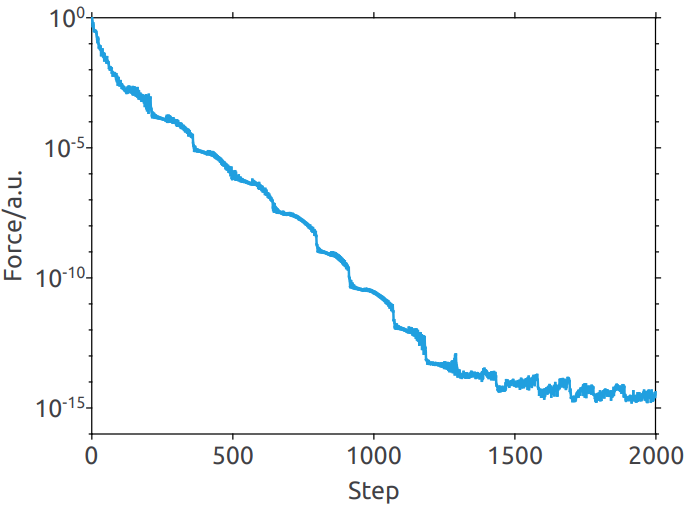
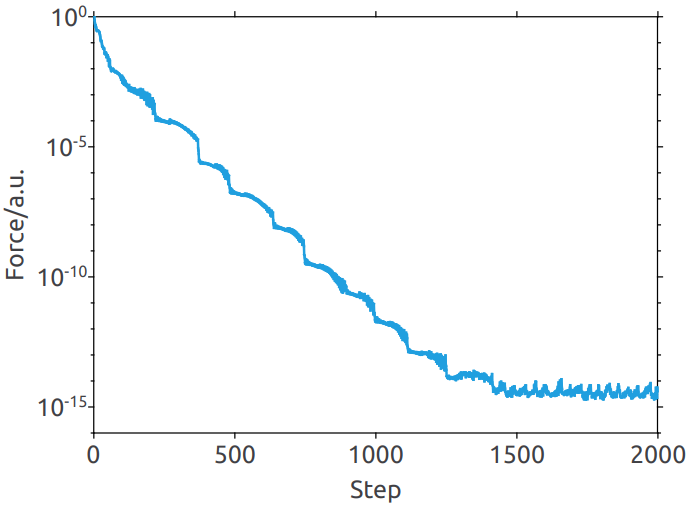
FireModel: Optimize algorithm

Changed region(s): [[0.0, 0.0, 1.0, 0.9154], [0.2747, 0.2657, 0.9462, 0.7972], [0.4884, 0.9449, 0.5799, 1.0]]

diff --git a/include/Physica/Core/Math/Calculus/ODE/ODESolver.h b/include/Physica/Core/Math/Calculus/ODE/ODESolver.h
@@ -23,10 +23,10 @@
 namespace Physica::Core {
     template<class T, size_t Dim>
     class ODESolver {
-    protected:
+    public:
         using VectorType = Vector<T, Dim>;
         using SolutionType = DenseMatrix<T, MatrixOption::Column | MatrixOption::Vector, Dim>;
-
+    protected:
         Vector<T> x;
         SolutionType solution;
         T stepSize;
@@ -45,9 +45,8 @@ namespace Physica::Core {
         [[nodiscard]] size_t getNumStep() const noexcept { return x.getLength(); }
         /* Static members */
         [[nodiscard]] static size_t getNumStep(T start, T end, T stepSize);
-    private:
         template<class Function>
-        VectorType RungeKuttaDy(size_t step, const VectorType& dy_dx, Function func);
+        static VectorType rungeKutta4_step(T stepSize, T x, const VectorType& sol, Function func);
     };
 
     template<class T, size_t Dim>
@@ -75,8 +74,7 @@ namespace Physica::Core {
         const size_t column_1 = solution.getColumn() - 1;
         for (size_t i = 0; i < column_1; ++i) {
             const T& x_i = x[i];
-            VectorType dy_dx = func(x_i, solution.asArray()[i]);
-            solution.asArray()[i + 1] = RungeKuttaDy(i, dy_dx, func);
+            solution.asArray()[i + 1] = rungeKutta4_step(stepSize, x_i, solution.asArray()[i], func);
             x[i + 1] = x_i + stepSize;
         }
     }
@@ -87,15 +85,15 @@ namespace Physica::Core {
      */
     template<class T, size_t Dim>
     template<class Function>
-    typename ODESolver<T, Dim>::VectorType ODESolver<T, Dim>::RungeKuttaDy (
-            size_t step, const VectorType& dy_dx, Function func) {
-        const VectorType k1 = T(0.5) * stepSize * dy_dx;
-        const T temp = x[step] + stepSize * T(0.5);
-        auto y = solution.col(step);
-        const VectorType k2 = stepSize * func(temp, y + k1);
-        const VectorType k3 = stepSize * func(temp, y + k2 * T(0.5));
-        const VectorType k4 = T(0.5) * stepSize * func(x[step] + stepSize, y + k3);
-        return y + (k1 + k2 + k3 + k4) / T(3);
+    typename ODESolver<T, Dim>::VectorType
+    ODESolver<T, Dim>::rungeKutta4_step(T stepSize, T x, const VectorType& sol, Function func) {
+        const VectorType k1 = T(0.5) * stepSize * func(x, sol);
+        const T x1 = x + stepSize;
+        const T temp = x1 * T(0.5);
+        const VectorType k2 = stepSize * func(temp, sol + k1);
+        const VectorType k3 = stepSize * func(temp, sol + k2 * T(0.5));
+        const VectorType k4 = T(0.5) * stepSize * func(x1, sol + k3);
+        return sol + (k1 + k2 + k3 + k4) / T(3);
     }
     /**
      * Solve the second order ODE that has form: y''(x) = f(x, y(x)).

diff --git a/include/Physica/Core/Physics/MD/KineticModel/FireModel.h b/include/Physica/Core/Physics/MD/KineticModel/FireModel.h
@@ -55,6 +55,7 @@ namespace Physica::Core {
         /* Operators */
         FireModel& operator=(FireModel obj) noexcept { swap(obj); return *this; }
         /* Operations */
+        void paramStep(MDType& rpmd);
         void mixingStep(MDType& rpmd);
         void swap(FireModel& __restrict obj) noexcept;
         /* Getters */
@@ -92,14 +93,10 @@ namespace Physica::Core {
     }
 
     template<class ScalarType, unsigned int Dim>
-    void FireModel<ScalarType, Dim>::mixingStep(MDType& rpmd) {
+    void FireModel<ScalarType, Dim>::paramStep(MDType& rpmd) {
         const auto force = rpmd.getForce().col(0);
         auto phase = rpmd.getPhaseMatrix().col(0);
         auto momentum = phase.head(rpmd.getDOF());
-
-        const ScalarType normP = momentum.norm();
-        normF = force.norm();
-        momentum = (ScalarType(1) - mixAlpha) * momentum + (mixAlpha * normP / normF) * force.asVector();
         const ScalarType power = force.asVector() * momentum; //Assuming unit mass
         if (power.isPositive()) {
             if (numStep > numLasyStep) {
@@ -114,6 +111,17 @@ namespace Physica::Core {
             mixAlpha = mixAlpha0;
             numStep = 0;
         }
+    }
+
+    template<class ScalarType, unsigned int Dim>
+    void FireModel<ScalarType, Dim>::mixingStep(MDType& rpmd) {
+        const auto force = rpmd.getForce().col(0);
+        auto phase = rpmd.getPhaseMatrix().col(0);
+        auto momentum = phase.head(rpmd.getDOF());
+
+        const ScalarType normP = momentum.norm();
+        normF = force.norm();
+        momentum = (ScalarType(1) - mixAlpha) * momentum + (mixAlpha * normP / normF) * force.asVector();
     }
 
     template<class ScalarType, unsigned int Dim>

diff --git a/include/Physica/Core/Physics/MD/MDImpl/RPMDImpl.h b/include/Physica/Core/Physics/MD/MDImpl/RPMDImpl.h
@@ -268,6 +268,29 @@ namespace Physica::Core {
 
         kineticModel.nve_step(ringPolymer, timeStep);
         updateForce<ForceModel, Executor>(forceModel);
+        fire.paramStep(*this);
+        forceStep(fire.getTimeStep());
+        fire.mixingStep(*this);
+    }
+
+    template<class ScalarType, unsigned int Dim, size_t NumReplica, class ForceMatrixAllocator>
+    template<BaroType Type, class KineticModel, class ForceModel, class Executor>
+    void RPMD<ScalarType, Dim, NumReplica, ForceMatrixAllocator>::fire_pstep(
+            FireModelType& fire,
+            Berendsen<ScalarType, NumReplica, Type>& barostat,
+            KineticModel& kineticModel,
+            ForceModel& forceModel) {
+        constexpr bool IsPeriodBoundary1 = Internal::Traits<KineticModel>::IsPeriodBoundary;
+        constexpr bool IsPeriodBoundary2 = Internal::Traits<ForceModel>::IsPeriodBoundary;
+        static_assert(IsPeriodBoundary1 == IsPeriodBoundary2, "[Error]: Inconsistent boundary condition");
+        static_assert(NumReplica == 1, "[Error]: Relaxing using PIMD makes no sence, NumReplica = 1 shall be enough");
+        static_assert(!Internal::is_empty_force_model<ForceModel>::value, "[Error]: Relax a empty model does nothing");
+
+        kineticModel.nve_step(ringPolymer, timeStep);
+        updateForce<ForceModel, Executor>(forceModel);
+        const LatticeMatrix stress = forceModel.virial(phaseToCell(0));
+        barostat.template npt_step<ForceModel>(*this, stress, timeStep);
+        fire.paramStep(*this);
         forceStep(fire.getTimeStep());
         fire.mixingStep(*this);
     }

diff --git a/include/Physica/Core/Physics/MD/RPMD.h b/include/Physica/Core/Physics/MD/RPMD.h
@@ -24,9 +24,11 @@
 #include "Physica/Core/Parallel/Executor/SequentialExecutor.h"
 #include "MDCell.h"
 #include "MDImpl/RingPolymer.h"
+#include "Barostat/BaroType.h"
 
 namespace Physica::Core {
     template<class ScalarType, unsigned int Dim> class FireModel;
+    template<class ScalarType, size_t NumReplica, BaroType Type> class Berendsen;
 
     template<class ScalarType>
     class RPMDBase {        
@@ -125,8 +127,12 @@ namespace Physica::Core {
 
         template<class KineticModel, class ForceModel, class Executor>
         void fire_vstep(FireModelType& fire, KineticModel& kineticModel, ForceModel& forceModel);
-        template<class KineticModel, class ForceModel, class Executor>
-        void fire_pstep(FireModelType& fire, KineticModel& kineticModel, ForceModel& forceModel);
+        template<BaroType Type, class KineticModel, class ForceModel, class Executor>
+        void fire_pstep(
+            FireModelType& fire,
+            Berendsen<ScalarType, NumReplica, Type>& barostat,
+            KineticModel& kineticModel,
+            ForceModel& forceModel);
 
         template<class RandomGenerator> void initMomentum(RandomGenerator& gen);
         void scaleVelocity();

diff --git a/include/Physica/Core/Physics/MD/Barostat/Berendsen.h b/include/Physica/Core/Physics/MD/Barostat/Berendsen.h
@@ -19,7 +19,7 @@
 #pragma once
 
 #include "Physica/Core/Physics/MD/RPMD.h"
-#include "Physica/Core/Math/Calculus/ODE/SRK2.h"
+#include "Physica/Core/Math/Calculus/ODE/ODESolver.h"
 #include "BaroType.h"
 
 namespace Physica::Core {
@@ -166,7 +166,13 @@ namespace Physica::Core {
         const auto& lattice = rpmd.getLattice();
         LatticeMatrix result(Dim, Dim, 0);
         auto integrateKernel = [&, deltaT](size_t r, size_t c) {
-            result(r, c) = (decayMatrix * lattice).calc(r, c) * deltaT;
+            using Integrator = ODESolver<ScalarType, 1>;
+            using VectorType = typename Integrator::VectorType;
+            const VectorType y{result(r, c)};
+            result(r, c) = Integrator::rungeKutta4_step(deltaT, 0, y,
+                [&lattice, &decayMatrix, r, c]([[maybe_unused]] ScalarType x, [[maybe_unused]] const VectorType& y) -> VectorType {
+                    return {(decayMatrix * lattice).calc(r, c)};
+                })[0];
         };
 
         if constexpr (Type == BaroType::Anisotropic) {

diff --git a/include/Physica/Core/Parallel/Executor/ThreadExecutor.h b/include/Physica/Core/Parallel/Executor/ThreadExecutor.h
@@ -59,7 +59,11 @@ namespace Physica::Core {
         /* Static members */
         [[nodiscard]] inline static Range splitJob(unsigned int loopCount, unsigned int core, unsigned int part);
     };
-
+    /**
+     * Return value are declared as [[nodiscard]] to warn user pay attention to
+     * 1. asynchronous return value
+     * 2. exception stored in std::future, which is usually ignored
+     */
     template<class Functor, class... Args>
     typename ThreadExecutor::FutureType ThreadExecutor::schedule(Functor func, Args&&... args) {
         return ThreadPool::getInstance().schedule(std::move(func), std::forward<Args>(args)...);

diff --git a/include/Physica/Core/Physics/MD/ForceModel/PairModel.h b/include/Physica/Core/Physics/MD/ForceModel/PairModel.h
@@ -272,7 +272,6 @@ namespace Physica::Core {
     template<class Derived>
     typename PairModel<Derived>::LatticeMatrix
     PairModel<Derived>::virial(const LatticeMatrix& lattice, const PositionMatrix& pos) const {        
-        static_assert(!IsSmallCell, "[Error]: Not implemented for small cell");
         LatticeMatrix result(Dim, Dim, 0);
         auto kernel = [this, &result](size_t i, size_t j, Vector3D r, ScalarType norm1, ScalarType norm2) {
             const ScalarType f_norm = force_functor(i, j, norm1, norm2);

diff --git a/include/Physica/Core/Physics/MD/Barostat/SCRBaro.h b/include/Physica/Core/Physics/MD/Barostat/SCRBaro.h
@@ -19,6 +19,7 @@
 #pragma once
 
 #include "Berendsen.h"
+#include "Physica/Core/Math/Calculus/ODE/SRK2.h"
 
 namespace Physica::Core {
     template<class ScalarType, size_t NumReplica, class RandomPoolType, BaroType Type> class SCRBaro;
